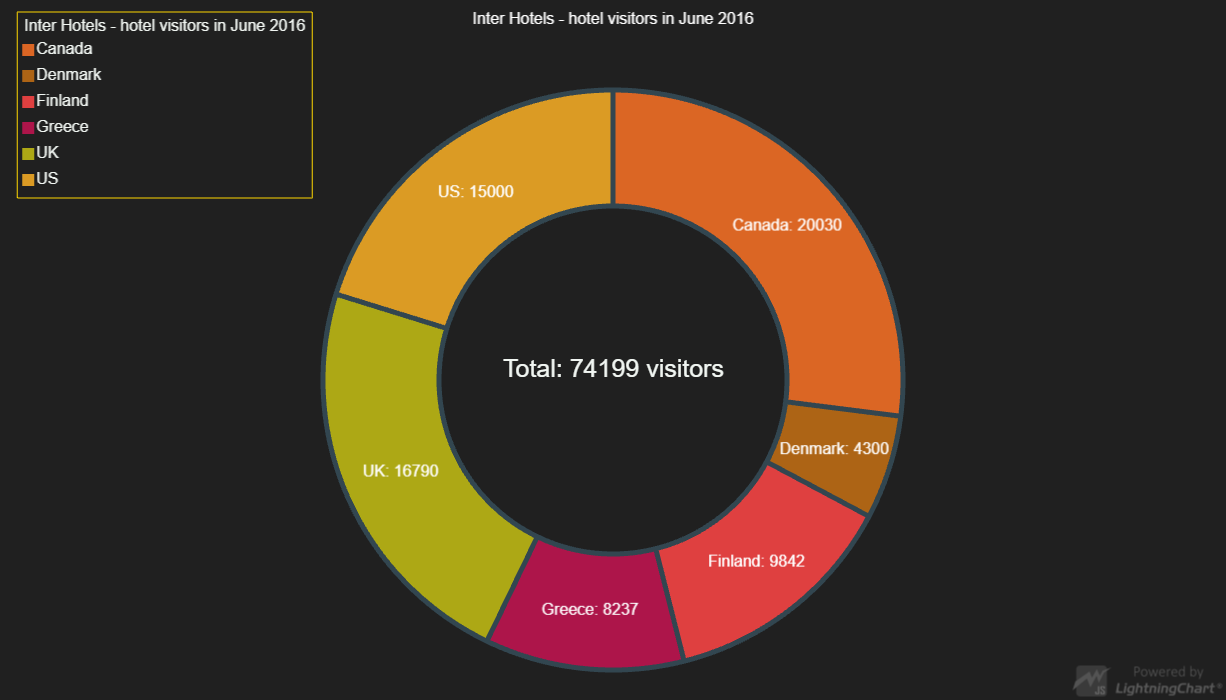
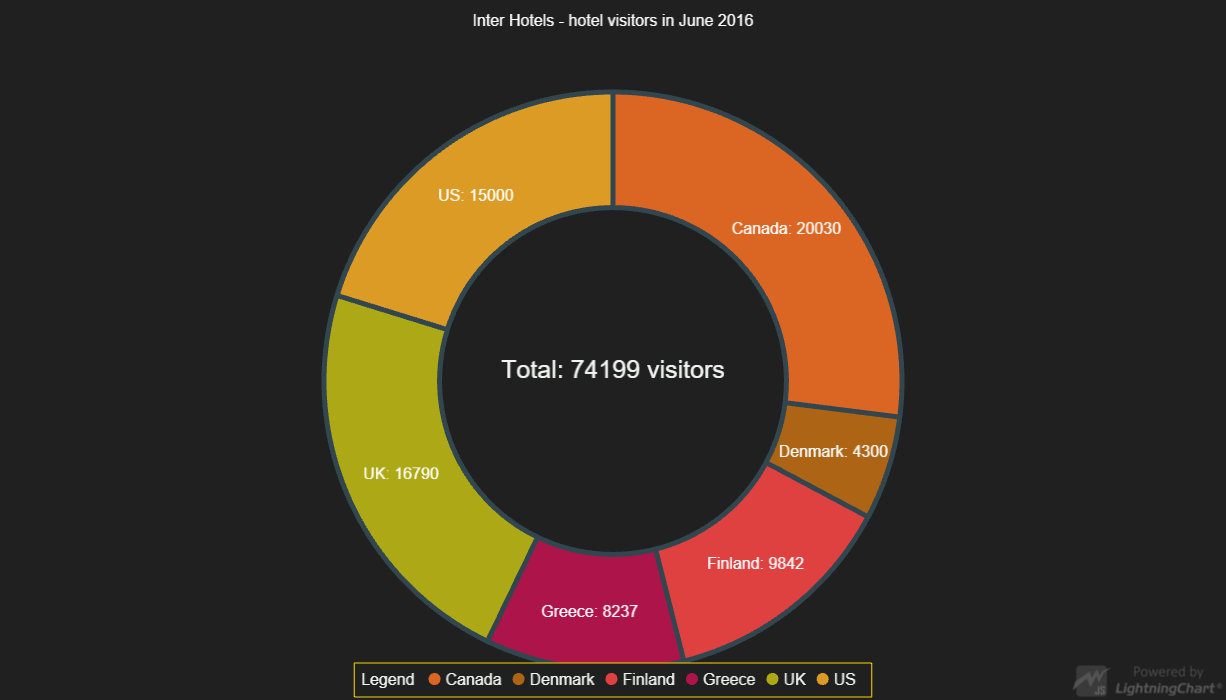
LCJS 3.0.0

diff --git a/src/index.js b/src/index.js
@@ -72,15 +72,12 @@ processedData.map((item) => donut.addSlice(item.name, item.value))
 donut.setLabelFormatter(SliceLabelFormatters.NamePlusValue).setSliceStrokeStyle(customStrokeStyle)
 // ----- Add LegendBox -----
 donut.addLegendBox(LegendBoxBuilders.HorizontalLegendBox)
-    .setPosition({ x: 1, y: 99 })
-    .setOrigin(UIOrigins.LeftTop)
-    .setMargin(5)
     .add(donut)
 
 // ----- Add TextBox -----
 donut.addUIElement(UIElementBuilders.TextBox.addStyler(
     textBox =>
-        textBox.setFont(fontSettings => fontSettings.setSize(25)).setText(`Total: ${totalVisitor} visitors`)
+        textBox.setTextFont(fontSettings => fontSettings.setSize(25)).setText(`Total: ${totalVisitor} visitors`)
 ))
     .setPosition({ x: 50, y: 50 })
     .setOrigin(UIOrigins.CenterTop)

diff --git a/README.md b/README.md
@@ -125,10 +125,10 @@ Direct developer email support can be purchased through a [Support Plan][4] or b
 © Arction Ltd 2009-2020. All rights reserved.
 
 
-[Pie chart]: https://www.arction.com/lightningchart-js-api-documentation/v2.2.0/classes/piechart.html
-[Pie Slice label formatter]: https://www.arction.com/lightningchart-js-api-documentation/v2.2.0/globals.html#slicelabelformatter
-[Color Palette]: https://www.arction.com/lightningchart-js-api-documentation/v2.2.0/globals.html#palette
-[Solid Fill Palette]: https://www.arction.com/lightningchart-js-api-documentation/v2.2.0/globals.html#solidfillpalette
-[Solid Line]: https://www.arction.com/lightningchart-js-api-documentation/v2.2.0/classes/solidline.html
-[Solid Fill]: https://www.arction.com/lightningchart-js-api-documentation/v2.2.0/classes/solidfill.html
+[Pie chart]: https://www.arction.com/lightningchart-js-api-documentation/v3.0.0/classes/piechart.html
+[Pie Slice label formatter]: https://www.arction.com/lightningchart-js-api-documentation/v3.0.0/globals.html#slicelabelformatter
+[Color Palette]: https://www.arction.com/lightningchart-js-api-documentation/v3.0.0/globals.html#palette
+[Solid Fill Palette]: https://www.arction.com/lightningchart-js-api-documentation/v3.0.0/globals.html#solidfillpalette
+[Solid Line]: https://www.arction.com/lightningchart-js-api-documentation/v3.0.0/classes/solidline.html
+[Solid Fill]: https://www.arction.com/lightningchart-js-api-documentation/v3.0.0/classes/solidfill.html
 
